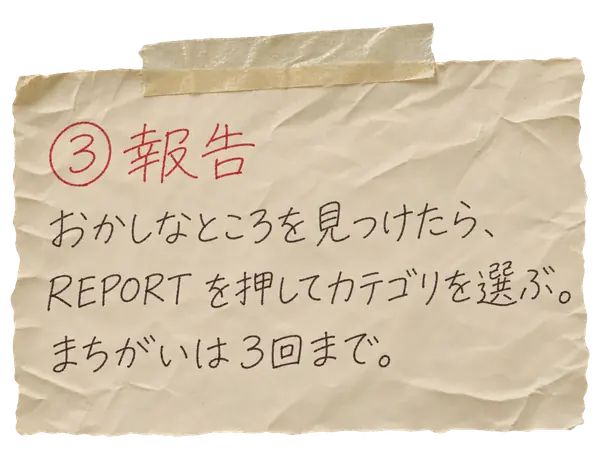
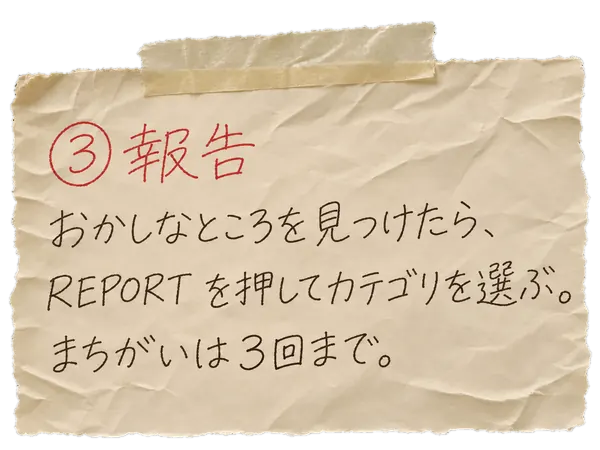
title note 3 (ja): まちがいは３回まで を全角に差し替え (#352)

diff --git a/src/data/titleNotes.test.ts b/src/data/titleNotes.test.ts
@@ -1,6 +1,7 @@
 import { readFileSync, readdirSync, statSync } from 'node:fs'
 import { describe, expect, it } from 'vitest'
 import { DEFAULT_CONFIG } from '../utils/gameConfig'
+import { toFullWidthDigits } from '../utils/fullWidth'
 import {
   MAX_NOTES_LANGUAGE_BYTES,
   MAX_NOTES_TOTAL_BYTES,
@@ -70,7 +71,9 @@ describe('title notes table (#296)', () => {
   })
   it('says the misreport limit the game really has', () => {
     const last = TITLE_NOTE_TABLE.notes[2]
-    expect(last.ja.alt).toContain(`${DEFAULT_CONFIG.maxMisreports}回まで`)
+    expect(last.ja.alt).toContain(
+      `${toFullWidthDigits(DEFAULT_CONFIG.maxMisreports)}回まで`
+    )
     expect(last.en.alt).toContain(`up to ${DEFAULT_CONFIG.maxMisreports} times`)
   })
   it('explains touch and mouse only: no keyboard, no story, no detective', () => {
@@ -85,7 +88,7 @@ describe('title notes table (#296)', () => {
       titleNotes(l)
         .map(n => n.alt)
         .join(' ')
-    for (const w of ['スワイプ', 'ドラッグ', 'REPORT', '3回まで'])
+    for (const w of ['スワイプ', 'ドラッグ', 'REPORT', '３回まで'])
       expect(all('ja')).toContain(w)
     for (const w of ['swipe', 'Drag', 'REPORT', 'up to 3 times'])
       expect(all('en')).toContain(w)

diff --git a/DESIGN.md b/DESIGN.md
@@ -166,7 +166,7 @@ The in-game screen is a single cabinet (`.cabinet` in `src/styles/retro.css`): t
 | `child` | found the child, what is the child's home like, why not want to go home | 刑事の物語 |
 | results (`start`; the true-ending lines `child`) | tonight's finds, "one step forward" (捜査前進), the last-night line | 結果 |
 
- Where story.md gives nothing yet, nothing is written (to be confirmed with kako-jun); after a shift the stamps are TONIGHT plus DAWN or WITHDRAWN, two stock lines (a night with more distinct kinds than before, a night with no new kinds = "no new leads" (never "no progress": every night moves the investigation forward, docs/story.md), withdrawn, the true ending) and the kept tail of the stage (same colour as the rest), and the action is "Once more" / 「もう一度」 (after the true ending "Back to title" / 「タイトルへ」, #294; no note is put before the title's START OVER). The action is not a key but the detective's handwriting (`NoteAction.tsx`, wording `LABELS.btn*`, which follows the note's language, not the machine keys): the words in blue ballpoint (a little darker than the scribbles, contrast over 7 on the paper) circled by one hand-drawn loop (a tilted ellipse that runs past its start and never closes, with a heavier second pass over one stretch, static SVG, with room between the words and the loop) and a hand-drawn right-pointing arrow to the right of the loop (static SVG), tilted by `TILT.action`; no underline, fill, border or shadow. Still a `<button>` named by its words (strokes aria-hidden); the transparent box is 44 px or more both ways (the tap area); hover (pointer devices) darkens the ink and thickens the loop, press moves it 2 px down, keyboard focus draws a second loop outside the first. `npm run check:note-wrap` checks the tap area, that the strokes stay on the paper and 3 px or more from the number box and the scribble. Body text is real text: Zen Kurenaido and Yomogi for Japanese (numbers in full-width digits ０-９ and ！？ like the subtitles, #352: the static wording is converted by `scripts/fullwidth-ja.mjs`, the numbers inserted at run time (night, Nth person, clock time, counts) by `toFullWidthDigits` in `src/utils/fullWidth.ts`; SIL OFL 1.1, subset to the characters in `public/fonts/note-chars.txt` by `scripts/build-note-fonts.py`, licence texts `OFL-ZenKurenaido.txt` / `OFL-Yomogi.txt`), Caveat for English; rules, frames, stamps, tape and the paper are CSS; only the sketches (`public/note/*.svg`, static self-made drawings, never user-supplied, a few KB each) are images. They are the detective's own drawings: she cannot draw and draws oddly, earnestly cute pictures (round puffy outlines, a big head on a tiny body, eyes and nose a little off, lines that wobble because the path points themselves are jittered; the faces and frames use no filter), pencil-grey on the paper, with the ballpoint blue kept for scribbles. Every frame on the note is hand-ruled: four separate straight edges (never a closed rectangle or a curve), each with its own small tilt (0.2-1.2 deg, opposite edges not parallel), a corner overshoot or gap (0.5-3 px), uneven thickness (up to 1.5x along an edge) and a slightly different ink. The sketch frames are written into `public/note/*.svg` by `scripts/note-frames.py`; the red stamps and the number form draw theirs with `HandFrame` from the fixed table `src/data/noteFrames.ts` (a different shape for each; rules in `noteFrames.test.ts`). The frames of the four missing-person boxes are straight lines (only the drawings inside wobble). The tilt of every hand-placed element (tape, night number, stamps, "found" tag, scribbles, frame labels) is a fixed, uneven angle in `src/data/noteTilt.ts` (no neighbours alike, enforced by vitest and `npm run check:note-wrap`); the red stamps also have uneven borders, corners and a small offset so they are not perfect rectangles. The four faces keep their traits (angry brows / red cheeks and a bun / one brow raised and a smirk / a line on the top of the head). The images and both note fonts are preloaded (`data-note-image` links in `index.html`, `uiPreload.ts`) and count against the 800KB budget with `public/ui`, the title photo and the six title notes (about 750KB in all; the budget was 600KB until #325, when the 374 ledger one-liners added about 480 kana/kanji to the Japanese note fonts, roughly +240KB; a player loads three notes, about 80KB; test in `uiAssets.test.ts`). Language (#292): `ja` or `en`, decided from the browser at every start (the first of `navigator.languages`, else `navigator.language`: ja* = ja, else en) and never saved, and decided once when the app starts (changing the browser's language while the page is open takes effect after a reload); there is no language switch anywhere (kako-jun's decision; the save's `settings.language` is reserved for a future settings screen and neither written nor used; no `?lang=` parameter either: tests mock `navigator`, real-browser checks use the `locale` option). Only the note and the title notes' pictures follow the language; machine parts (START SHIFT, REPORT, TIME, the cabinet) are always English, subtitles stay Japanese until `SUBTITLE_EN_ENABLED` (`gameConfig.ts`, off) is turned on (#326, see the Subtitles row of the component table). The title screen (#296; `src/components/StartScreen.tsx`, `src/styles/start.css`, `start-*` classes) is the photo and almost nothing else, at every screen size: `public/images/logo.webp` fills the whole viewport (`object-fit: cover`, no black margin, column or band anywhere), drawn at 1.12x and drifting slowly in different directions (two nested CSS `transform` loops, x with a 70 s period and y with a 53 s one, each easing like a sine so the speed never jumps; each axis only travels +-5.4%, = (zoom - 1) / 2 x 0.9, i.e. 90% of the margin the zoom leaves, so the edge never shows; held by `src/styles/startCss.test.ts`; `prefers-reduced-motion`: still and no noise). The picture is soft and that is fine (the noise covers it). `object-position` is 85% 20% on phones and 85% 25% on wide screens so the signboard stays in view; a wide screen's cover crop cuts the top and bottom of the tall board, which is accepted. Now and then a burst of the monitor's own noise, clearly visible (`NoiseCanvas` at opacity 0.35 + `.scan` + white tear bands, 0.4-1.1 s, every 0.8-3.5 s, so noise is on about 30% of the time, #332; `TitleNoise.tsx`, timing in `titleFx.ts`). On the photo lie only: the three sticky notes and the START key. The notes explain the controls and the rules from outside the game (touch and mouse only: tap / click, swipe / drag; no keyboard hints, no detective, no story; the keyboard itself still works). They are one picture per note and language (handwritten generated artwork, `public/title-notes/{ja,en}-{1,2,3}.webp`, 600x450 files drawn at 300x225 CSS px scale, tilt and tape baked in so CSS adds no rotation), described by one table `src/data/titleNotes.json` (+ `titleNotes.ts`: file, size, words, alt = exactly what the picture says; the byte ceilings per picture / per language / in total are constants there). Swapping a picture means replacing the file and its size in the table. One note is shown at a time at the bottom left edge of the photo (width about 70vw on a phone, at most 340px, and low enough to leave the signboard alone: `check:title` requires that at most 15% of the part of the board on screen is covered by the note and the key, 85% at 360x640), with a visible pager ("1/3" and three dots) under it, on the same row as the START key (the foot is one grid: note, then pager and key); tap, click, swipe or mouse drag turns the page at once (no animation; left = next, right = previous; the last wraps to the first); Enter / Space / arrow keys do the same with no hint on screen (an sr-only "next note" sits in the button). All three pictures sit in one grid cell (the others `visibility: hidden`, empty alt) so nothing shifts when a page turns. The pages are a labelled `section` (`遊び方` / `How to play`) and the pager is a status region that also reads out the new note's words when the page turns. The first note has no goal line by decision: the goal ("find anything strange") is part of the third note. Paper and tape cast a light shadow along their own outline (`filter: drop-shadow(3px 4px 3px rgba(0,0,0,.4))`, light from the upper left, the same on every page); no scrim, dark band or panel is ever put under a note. The START key lies directly on the photo at the bottom, on the right of the pager row on a phone and under the note (bottom left) on a wide or landscape screen, so it never stands on the signboard, with no plate behind it: it is the cabinet's own key part (`.key`, `cam-key*.webp`, the same tint and label position as the camera keys) with the green lamp beside it (amber while loading), a drop-shadow of the same light; wording is the machine's English (START SHIFT / LOADING...). After the true ending (#294) the key is START OVER (one confirmation, laid out like the report dialog: the choice on top and CANCEL below it, the same key part twice with the same width and height, ERASE ALL red and CANCEL cream, CANCEL holds the focus and Escape; Tab goes ERASE ALL then CANCEL; #307; `check:title` measures the two) and a one-line "The investigation is closed." in light text with a text shadow; while the confirmation is open the note is gone (so the signboard stays clear) and the confirmation (text right-aligned, ERASE ALL, CANCEL, all 240px wide) takes the START key's place: same right edge and bottom (the pager is only hidden so the column keeps its width), so the eye does not move; `check:title` holds it to 2px. No vignette or dark layer is put on the photo. The notes' pictures of the browser's language are the only ones loaded (`preloadTitleNotes` in `uiPreload.ts`). Checked in a real browser by `npm run check:title` (photo edge over the whole drift at 360x640 ... 3440x1440 plus 844x390 and 667x375, signboard share in view and clear of note / key, note inside the viewport and clear of the key on every page, paging by click / keyboard / mouse drag, tap area, picture sizes, the language following the browser locale, reduced motion, one noise burst of under 1.4 s, no dark surface).
+ Where story.md gives nothing yet, nothing is written (to be confirmed with kako-jun); after a shift the stamps are TONIGHT plus DAWN or WITHDRAWN, two stock lines (a night with more distinct kinds than before, a night with no new kinds = "no new leads" (never "no progress": every night moves the investigation forward, docs/story.md), withdrawn, the true ending) and the kept tail of the stage (same colour as the rest), and the action is "Once more" / 「もう一度」 (after the true ending "Back to title" / 「タイトルへ」, #294; no note is put before the title's START OVER). The action is not a key but the detective's handwriting (`NoteAction.tsx`, wording `LABELS.btn*`, which follows the note's language, not the machine keys): the words in blue ballpoint (a little darker than the scribbles, contrast over 7 on the paper) circled by one hand-drawn loop (a tilted ellipse that runs past its start and never closes, with a heavier second pass over one stretch, static SVG, with room between the words and the loop) and a hand-drawn right-pointing arrow to the right of the loop (static SVG), tilted by `TILT.action`; no underline, fill, border or shadow. Still a `<button>` named by its words (strokes aria-hidden); the transparent box is 44 px or more both ways (the tap area); hover (pointer devices) darkens the ink and thickens the loop, press moves it 2 px down, keyboard focus draws a second loop outside the first. `npm run check:note-wrap` checks the tap area, that the strokes stay on the paper and 3 px or more from the number box and the scribble. Body text is real text: Zen Kurenaido and Yomogi for Japanese (numbers in full-width digits ０-９ and ！？ like the subtitles, #352: the static wording is converted by `scripts/fullwidth-ja.mjs`, the numbers inserted at run time (night, Nth person, clock time, counts) by `toFullWidthDigits` in `src/utils/fullWidth.ts`; SIL OFL 1.1, subset to the characters in `public/fonts/note-chars.txt` by `scripts/build-note-fonts.py`, licence texts `OFL-ZenKurenaido.txt` / `OFL-Yomogi.txt`), Caveat for English; rules, frames, stamps, tape and the paper are CSS; only the sketches (`public/note/*.svg`, static self-made drawings, never user-supplied, a few KB each) are images. They are the detective's own drawings: she cannot draw and draws oddly, earnestly cute pictures (round puffy outlines, a big head on a tiny body, eyes and nose a little off, lines that wobble because the path points themselves are jittered; the faces and frames use no filter), pencil-grey on the paper, with the ballpoint blue kept for scribbles. Every frame on the note is hand-ruled: four separate straight edges (never a closed rectangle or a curve), each with its own small tilt (0.2-1.2 deg, opposite edges not parallel), a corner overshoot or gap (0.5-3 px), uneven thickness (up to 1.5x along an edge) and a slightly different ink. The sketch frames are written into `public/note/*.svg` by `scripts/note-frames.py`; the red stamps and the number form draw theirs with `HandFrame` from the fixed table `src/data/noteFrames.ts` (a different shape for each; rules in `noteFrames.test.ts`). The frames of the four missing-person boxes are straight lines (only the drawings inside wobble). The tilt of every hand-placed element (tape, night number, stamps, "found" tag, scribbles, frame labels) is a fixed, uneven angle in `src/data/noteTilt.ts` (no neighbours alike, enforced by vitest and `npm run check:note-wrap`); the red stamps also have uneven borders, corners and a small offset so they are not perfect rectangles. The four faces keep their traits (angry brows / red cheeks and a bun / one brow raised and a smirk / a line on the top of the head). The images and both note fonts are preloaded (`data-note-image` links in `index.html`, `uiPreload.ts`) and count against the 800KB budget with `public/ui`, the title photo and the six title notes (about 750KB in all; the budget was 600KB until #325, when the 374 ledger one-liners added about 480 kana/kanji to the Japanese note fonts, roughly +240KB; a player loads three notes, about 80KB; test in `uiAssets.test.ts`). Language (#292): `ja` or `en`, decided from the browser at every start (the first of `navigator.languages`, else `navigator.language`: ja* = ja, else en) and never saved, and decided once when the app starts (changing the browser's language while the page is open takes effect after a reload); there is no language switch anywhere (kako-jun's decision; the save's `settings.language` is reserved for a future settings screen and neither written nor used; no `?lang=` parameter either: tests mock `navigator`, real-browser checks use the `locale` option). Only the note and the title notes' pictures follow the language; machine parts (START SHIFT, REPORT, TIME, the cabinet) are always English, subtitles stay Japanese until `SUBTITLE_EN_ENABLED` (`gameConfig.ts`, off) is turned on (#326, see the Subtitles row of the component table). The title screen (#296; `src/components/StartScreen.tsx`, `src/styles/start.css`, `start-*` classes) is the photo and almost nothing else, at every screen size: `public/images/logo.webp` fills the whole viewport (`object-fit: cover`, no black margin, column or band anywhere), drawn at 1.12x and drifting slowly in different directions (two nested CSS `transform` loops, x with a 70 s period and y with a 53 s one, each easing like a sine so the speed never jumps; each axis only travels +-5.4%, = (zoom - 1) / 2 x 0.9, i.e. 90% of the margin the zoom leaves, so the edge never shows; held by `src/styles/startCss.test.ts`; `prefers-reduced-motion`: still and no noise). The picture is soft and that is fine (the noise covers it). `object-position` is 85% 20% on phones and 85% 25% on wide screens so the signboard stays in view; a wide screen's cover crop cuts the top and bottom of the tall board, which is accepted. Now and then a burst of the monitor's own noise, clearly visible (`NoiseCanvas` at opacity 0.35 + `.scan` + white tear bands, 0.4-1.1 s, every 0.8-3.5 s, so noise is on about 30% of the time, #332; `TitleNoise.tsx`, timing in `titleFx.ts`). On the photo lie only: the three sticky notes and the START key. The notes explain the controls and the rules from outside the game (touch and mouse only: tap / click, swipe / drag; no keyboard hints, no detective, no story; the keyboard itself still works). They are one picture per note and language (handwritten generated artwork, `public/title-notes/{ja,en}-{1,2,3}.webp`, 600x450 files drawn at 300x225 CSS px scale, tilt and tape baked in so CSS adds no rotation), described by one table `src/data/titleNotes.json` (+ `titleNotes.ts`: file, size, words, alt = exactly what the picture says; the byte ceilings per picture / per language / in total are constants there). Swapping a picture means replacing the file and its size in the table. The Japanese notes use full-width digits like the rest of the Japanese wording (note 3 says 「まちがいは３回まで」, #352), so its alt is the same. One note is shown at a time at the bottom left edge of the photo (width about 70vw on a phone, at most 340px, and low enough to leave the signboard alone: `check:title` requires that at most 15% of the part of the board on screen is covered by the note and the key, 85% at 360x640), with a visible pager ("1/3" and three dots) under it, on the same row as the START key (the foot is one grid: note, then pager and key); tap, click, swipe or mouse drag turns the page at once (no animation; left = next, right = previous; the last wraps to the first); Enter / Space / arrow keys do the same with no hint on screen (an sr-only "next note" sits in the button). All three pictures sit in one grid cell (the others `visibility: hidden`, empty alt) so nothing shifts when a page turns. The pages are a labelled `section` (`遊び方` / `How to play`) and the pager is a status region that also reads out the new note's words when the page turns. The first note has no goal line by decision: the goal ("find anything strange") is part of the third note. Paper and tape cast a light shadow along their own outline (`filter: drop-shadow(3px 4px 3px rgba(0,0,0,.4))`, light from the upper left, the same on every page); no scrim, dark band or panel is ever put under a note. The START key lies directly on the photo at the bottom, on the right of the pager row on a phone and under the note (bottom left) on a wide or landscape screen, so it never stands on the signboard, with no plate behind it: it is the cabinet's own key part (`.key`, `cam-key*.webp`, the same tint and label position as the camera keys) with the green lamp beside it (amber while loading), a drop-shadow of the same light; wording is the machine's English (START SHIFT / LOADING...). After the true ending (#294) the key is START OVER (one confirmation, laid out like the report dialog: the choice on top and CANCEL below it, the same key part twice with the same width and height, ERASE ALL red and CANCEL cream, CANCEL holds the focus and Escape; Tab goes ERASE ALL then CANCEL; #307; `check:title` measures the two) and a one-line "The investigation is closed." in light text with a text shadow; while the confirmation is open the note is gone (so the signboard stays clear) and the confirmation (text right-aligned, ERASE ALL, CANCEL, all 240px wide) takes the START key's place: same right edge and bottom (the pager is only hidden so the column keeps its width), so the eye does not move; `check:title` holds it to 2px. No vignette or dark layer is put on the photo. The notes' pictures of the browser's language are the only ones loaded (`preloadTitleNotes` in `uiPreload.ts`). Checked in a real browser by `npm run check:title` (photo edge over the whole drift at 360x640 ... 3440x1440 plus 844x390 and 667x375, signboard share in view and clear of note / key, note inside the viewport and clear of the key on every page, paging by click / keyboard / mouse drag, tap area, picture sizes, the language following the browser locale, reduced motion, one noise burst of under 1.4 s, no dark surface).
 
 - Knob circle to its BRIGHTNESS / CONTRAST label gap: +9px (kako-jun's choice in #309; 18px in #300 was too wide, 3px too tight; pinned at 9px).
 - Knob label drawn up toward the knob (#353): `--knob-label-pull` on `.knob-wrap` = `calc(4px / var(--pz, 1))` (the panel zoom is divided out, so about 4px on screen in every width band) as a `transform` on `.knob-wrap .label`; the layout gap stays 9px (portrait) and this is not a term of the constants. Tap area unchanged; kako-jun's live check may tune the number.
